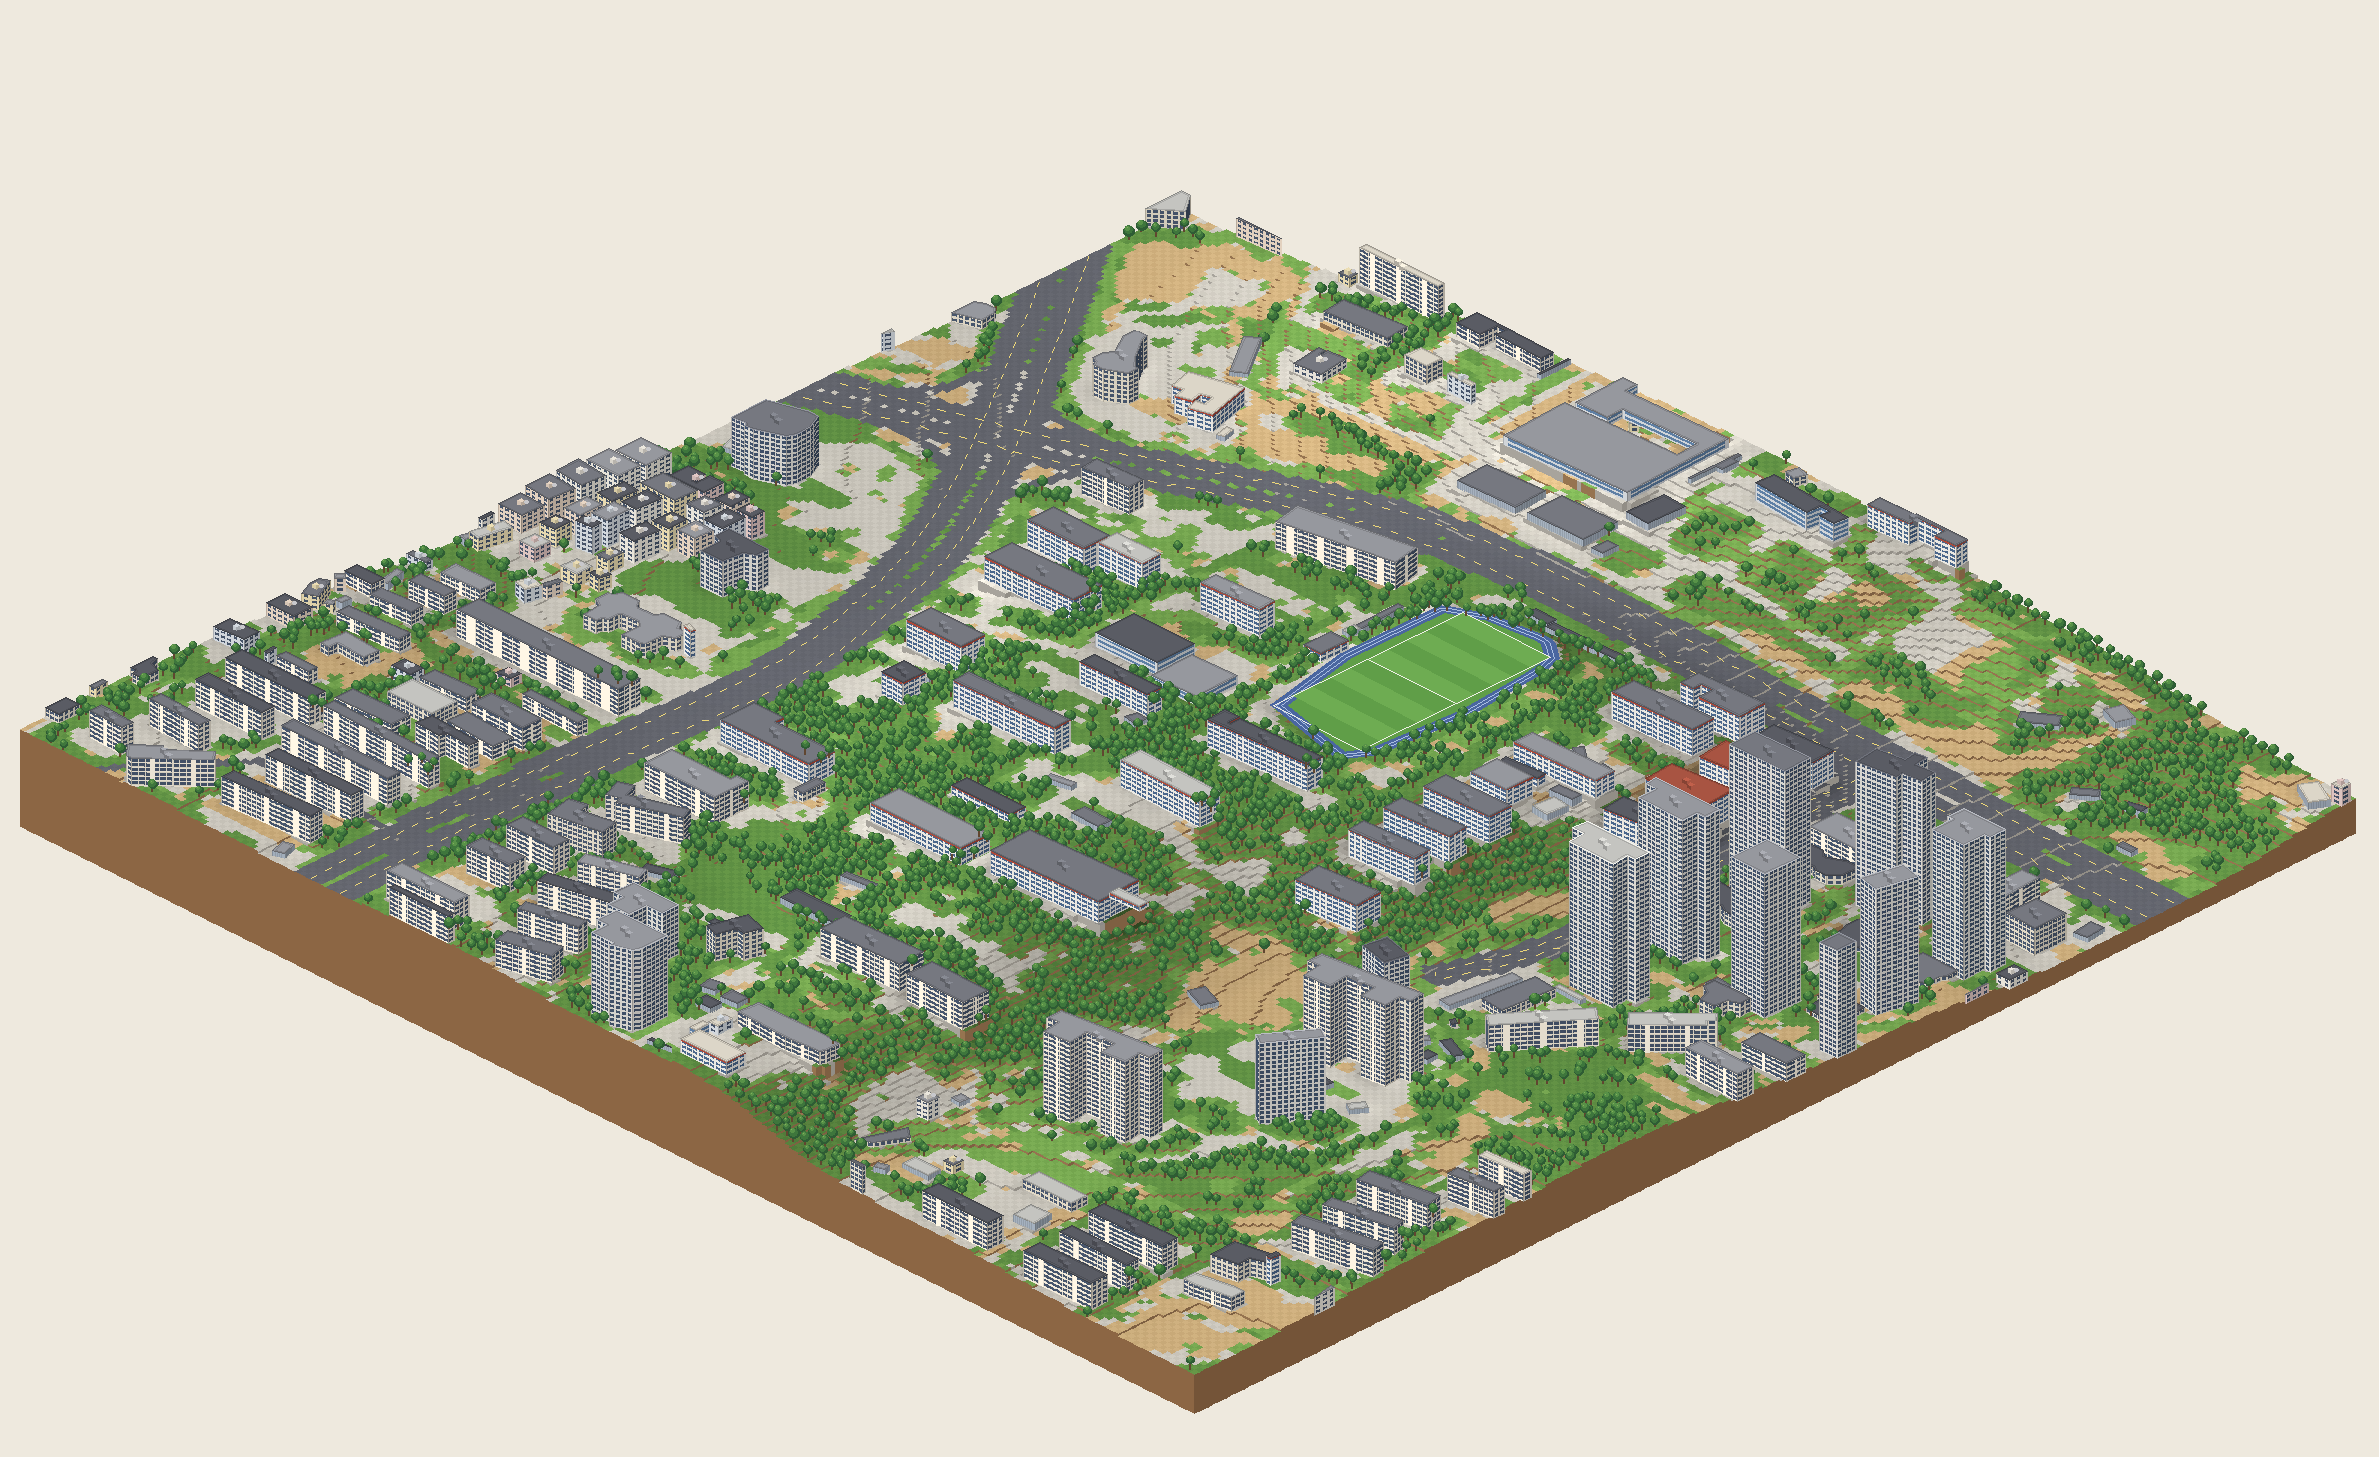
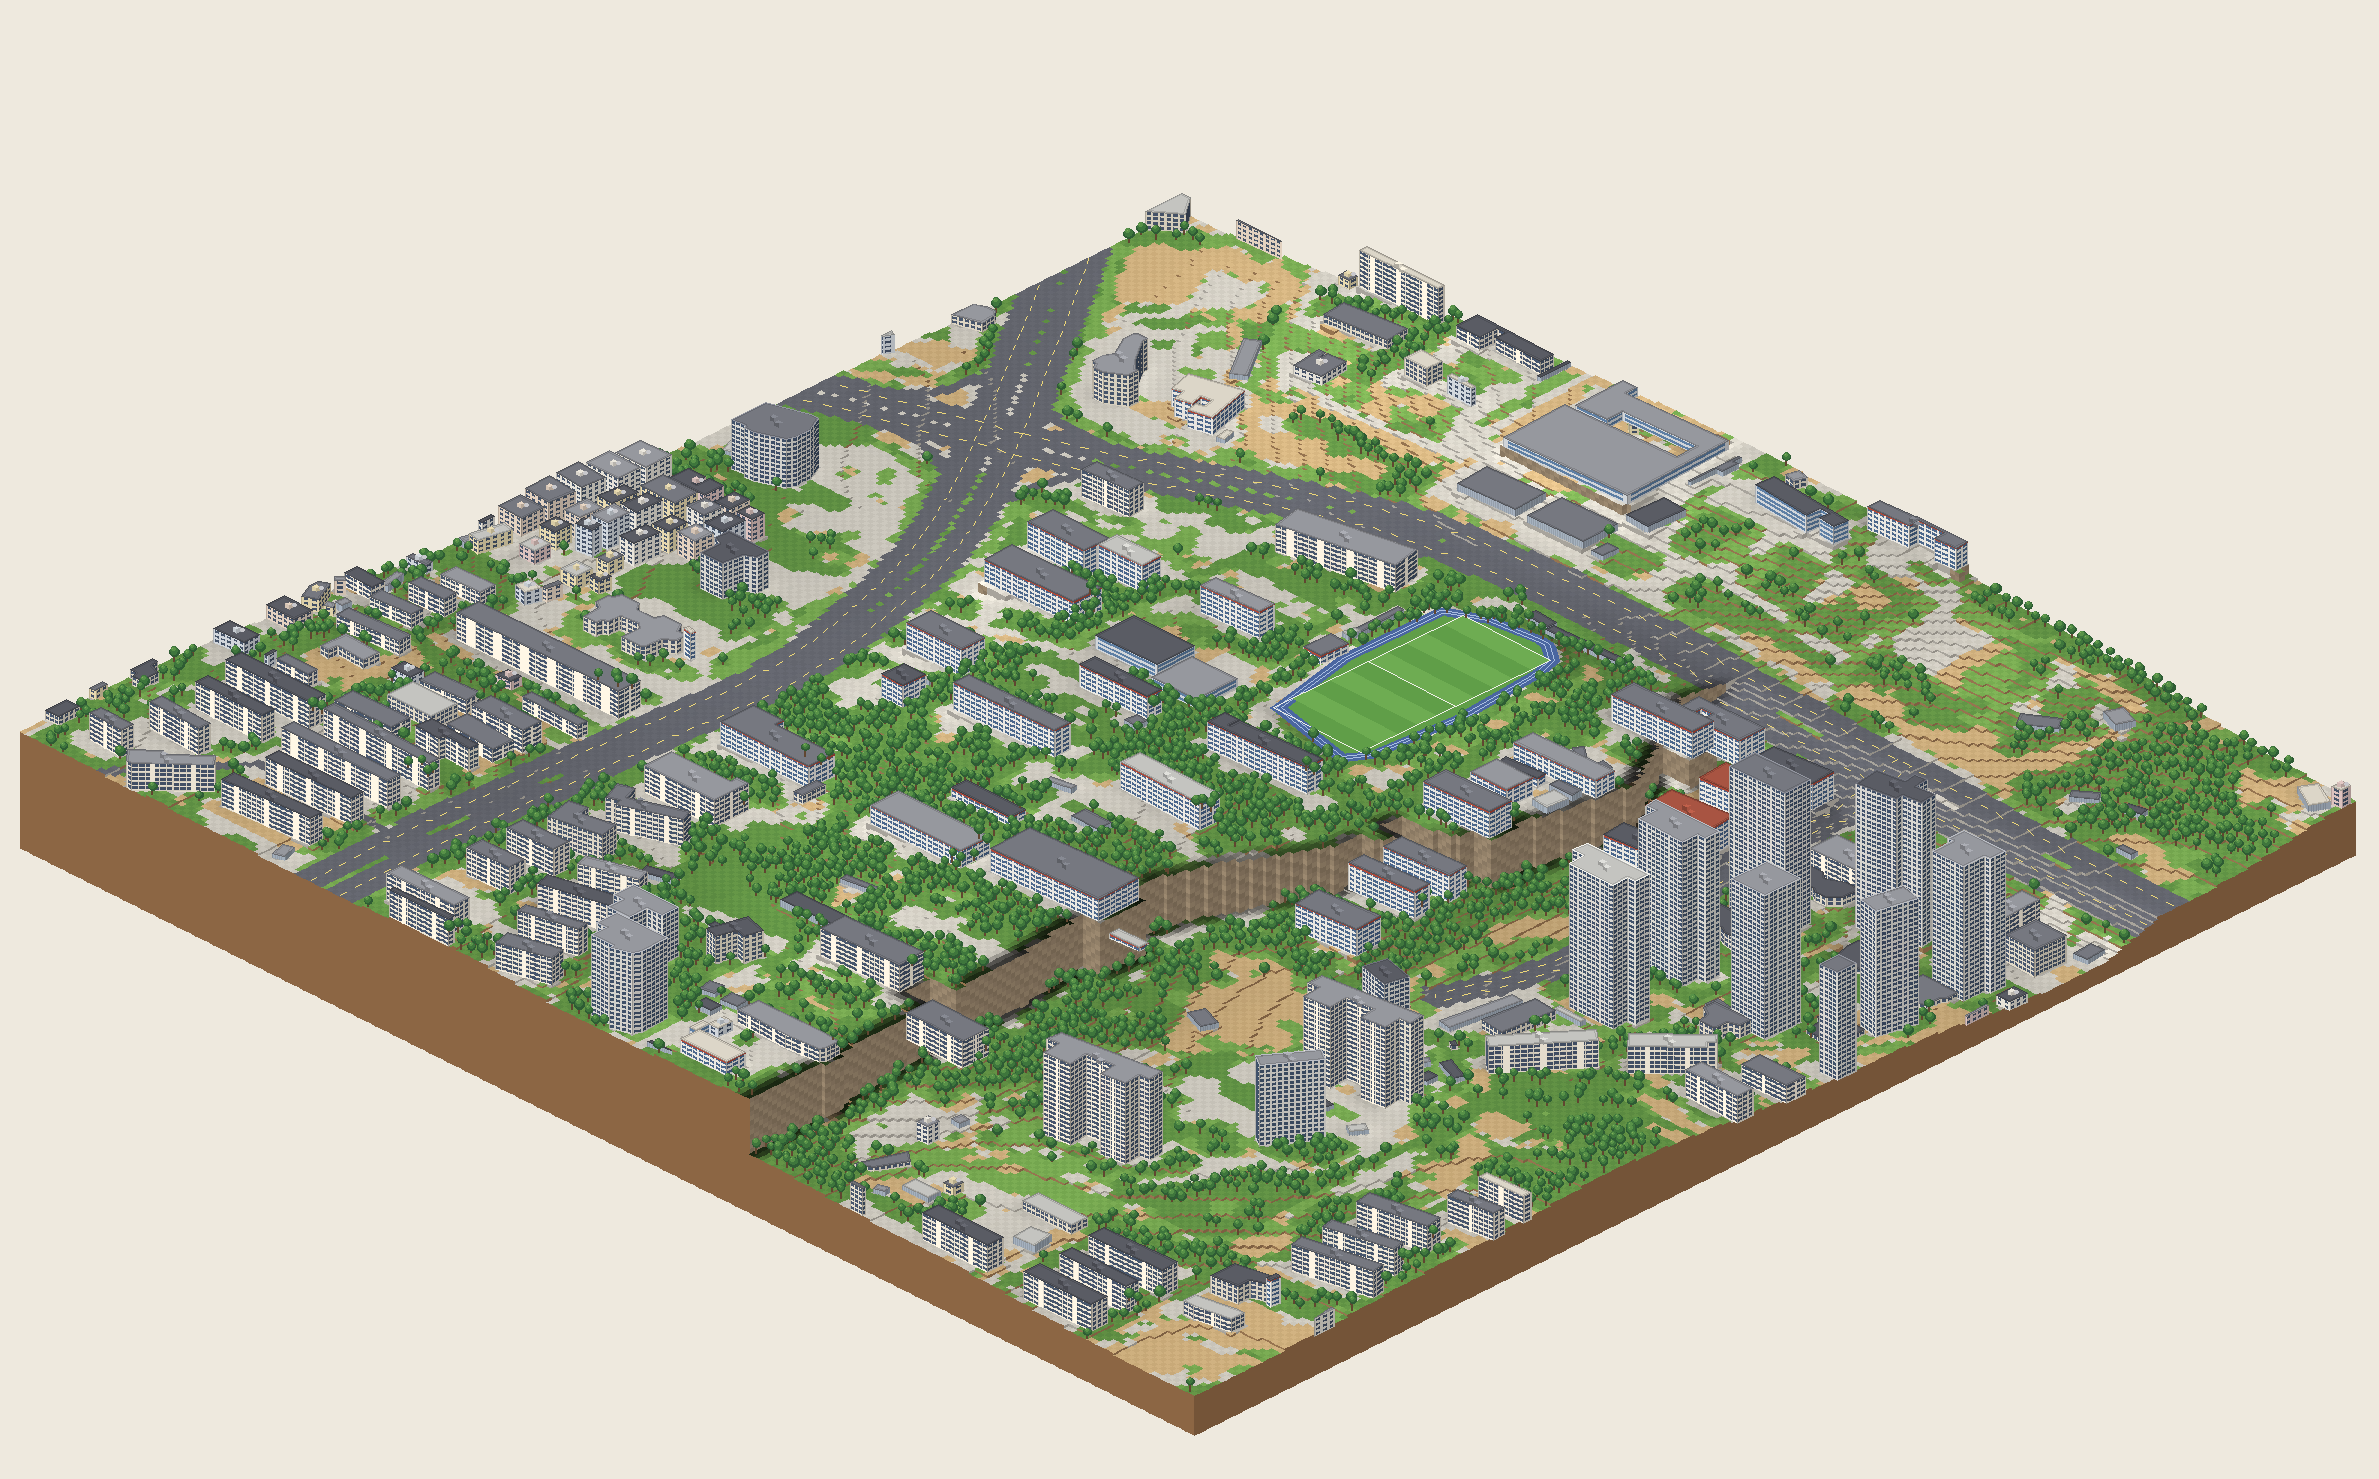
changsha-iso v0.3.1: model the escarpment east of campus as a cliff

diff --git a/works/changsha-iso/index.html b/works/changsha-iso/index.html
@@ -40,7 +40,7 @@
     <li>建筑轮廓：Overture Maps（源自 Zenodo 中国建筑轮廓数据集）</li>
     <li>楼层与楼型：Gemini 3.8 Flash 逐块看卫星图（阴影、立面）判读，覆盖约八成楼；其余用 CMAB 楼高或邻近楼推断</li>
     <li>道路：OpenStreetMap</li>
-    <li>地形：哥白尼 GLO-30 高程（30 m），去除树冠/楼顶后平滑，起伏约 35 m，竖向放大 1.6 倍</li>
+    <li>地形：哥白尼 GLO-30 高程（30 m），去除树冠/楼顶后平滑，起伏约 35 m，竖向放大 1.6 倍；学院东侧的悬崖按高程突变线单独建模，不做平滑</li>
     
     <li>地面、树木、屋顶颜色：Esri World Imagery 卫星影像分色</li>
     <li>全部由代码绘制，尚未经过 AI 重绘</li>
@@ -48,7 +48,7 @@
 </div>
 <div id="zoom"><button class="chip" id="zi" aria-label="放大">+</button><button class="chip" id="zo" aria-label="缩小">−</button><button class="chip" id="zf" aria-label="复位" style="font-size:14px">⤢</button></div>
 <script>
-const META = {"w": 2379, "h": 1457, "labels": [{"name": "洞井路", "x": 999, "y": 386, "kind": "road"}, {"name": "木莲东路", "x": 1881, "y": 777, "kind": "road"}, {"name": "长沙环境保护职业技术学院", "x": 1204, "y": 690, "kind": "poi"}]};
+const META = {"w": 2379, "h": 1479, "labels": [{"name": "洞井路", "x": 999, "y": 388, "kind": "road"}, {"name": "木莲东路", "x": 1881, "y": 787, "kind": "road"}, {"name": "长沙环境保护职业技术学院", "x": 1204, "y": 692, "kind": "poi"}]};
 const stage=document.getElementById('stage'), world=document.getElementById('world'), img=document.getElementById('map');
 META.labels.forEach(l=>{const e=document.createElement('div');e.className='lbl '+(l.kind==='road'?'road':'');e.textContent=l.name;e.style.left=l.x+'px';e.style.top=l.y+'px';world.appendChild(e);});
 let s=1,tx=0,ty=0;
